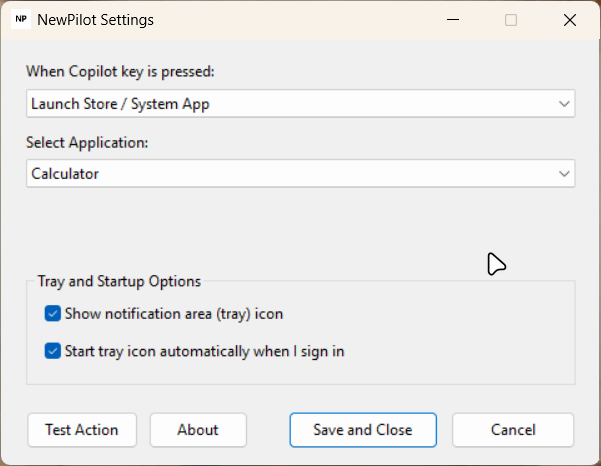
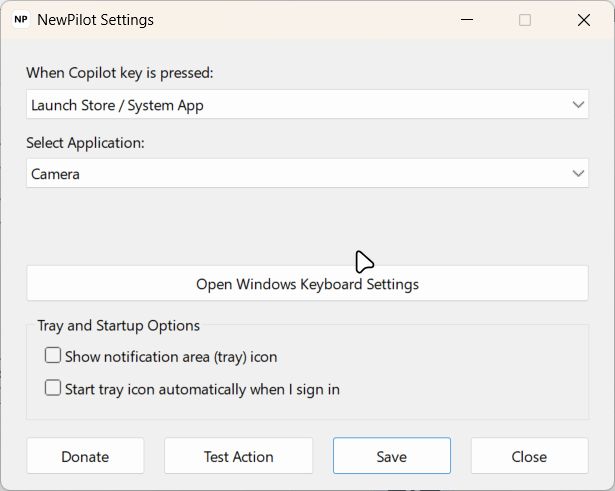
docs: update screenshots and add new screenshot for improved visuals

diff --git a/README.md b/README.md
@@ -8,17 +8,20 @@
 </a>
 
 ---
+
 ## Screenshots
 
 <p align="center">
-  <img src="screenshots/newpilot-screenshot-1.png" alt="NewPilot app selection screenshot" width="250" />
-  <img src="screenshots/newpilot-screenshot-2.png" alt="NewPilot preset selection screenshot" width="250" />
-  <img src="screenshots/newpilot-screenshot-3.png" alt="NewPilot custom menu screenshot" width="250" />
+  <img src="screenshots/newpilot-screenshot-1.png" alt="NewPilot app selection screenshot" width="350" />
+  <img src="screenshots/newpilot-screenshot-2.png" alt="NewPilot preset selection screenshot" width="350" />
+  <img src="screenshots/newpilot-screenshot-3.png" alt="NewPilot custom menu screenshot" width="350" />
+  <img src="screenshots/newpilot-screenshot-4.png" alt="NewPilot do nothing screenshot" width="350" />
 </p>
 
 ## Download & Installation
 
 ### Option 1: Microsoft Store (Recommended)
+
 Install the official Microsoft-signed package directly through the Microsoft Store:
 
 <a href="https://apps.microsoft.com/detail/9NGW4QTD1SWF?referrer=appbadge&mode=full" target="_blank" rel="noopener noreferrer">
@@ -26,6 +29,7 @@ Install the official Microsoft-signed package directly through the Microsoft Sto
 </a>
 
 ### Option 2: WinGet (Command Line)
+
 Install the official Microsoft-signed package from Windows Terminal / PowerShell with zero Store UI:
 
 ```powershell
@@ -33,24 +37,27 @@ winget install "NewPilot"
 ```
 
 ### Option 3: Standalone 1-Click Installer (.exe)
+
 Prefer an offline installer without Microsoft Store? Download and run the standalone setup executable from GitHub Releases:
 
 <a href="https://github.com/GamerJagdish/NewPilot/releases/latest/download/NewPilot-Setup.exe" target="_self">
 	<img src="https://img.shields.io/badge/Download-NewPilot--Setup.exe-0078D4?style=for-the-badge&logo=windows" height="40" alt="Download NewPilot-Setup.exe"/>
 </a>
 
-*(Automatically trusts the developer certificate, registers the MSIX package into Windows 11, and opens NewPilot Settings with zero Microsoft Store interaction).*
+_(Automatically trusts the developer certificate, registers the MSIX package into Windows 11, and opens NewPilot Settings with zero Microsoft Store interaction)._
 
 ### Option 4: One-Click PowerShell Web Installer
+
 Open **PowerShell as Administrator** and execute:
 
 ```powershell
 irm https://raw.githubusercontent.com/GamerJagdish/NewPilot/main/install.ps1 | iex
 ```
 
-*(This command trusts the security certificate, installs the MSIX package, and opens the Settings configuration dialog).*
+_(This command trusts the security certificate, installs the MSIX package, and opens the Settings configuration dialog)._
 
 ### Enabling NewPilot in Windows 11
+
 1. Open **Windows 11 Settings**.
 2. Go to **Bluetooth & devices** → **Keyboard**.
 3. Under **Shortcuts and hotkeys**, locate **Customize Copilot key on keyboard**.
@@ -66,13 +73,13 @@ Existing solutions rely on heavy runtimes (.NET SDK, Electron, WPF), introducing
 
 ### Benchmark Comparison
 
-| Metric | Heavy .NET / Electron Alternatives | **NewPilot (Native C++)** | Improvement |
-| :--- | :--- | :--- | :--- |
-| **Installed App Size** | ~15 MB – 60 MB+ | **~290 KB** | **> 99% Smaller** |
-| **MSIX Package Size** | ~15 MB – 50 MB | **~150 KB** | **> 99% Smaller** |
-| **Keypress Latency** | ~100ms – 300ms (.NET CLR init) | **< 5ms** (Instantaneous) | **~30x Faster** |
-| **Tray Memory Usage** | 30 MB – 80 MB RAM | **< 2 MB RAM** | **> 93% RAM Reduction** |
-| **Dependencies** | .NET 10 SDK / Runtime | **Zero Runtimes** (Pure Win32 C++) | Native Windows OS API |
+| Metric                 | Heavy .NET / Electron Alternatives | **NewPilot (Native C++)**          | Improvement             |
+| :--------------------- | :--------------------------------- | :--------------------------------- | :---------------------- |
+| **Installed App Size** | ~15 MB – 60 MB+                    | **~290 KB**                        | **> 99% Smaller**       |
+| **MSIX Package Size**  | ~15 MB – 50 MB                     | **~150 KB**                        | **> 99% Smaller**       |
+| **Keypress Latency**   | ~100ms – 300ms (.NET CLR init)     | **< 5ms** (Instantaneous)          | **~30x Faster**         |
+| **Tray Memory Usage**  | 30 MB – 80 MB RAM                  | **< 2 MB RAM**                     | **> 93% RAM Reduction** |
+| **Dependencies**       | .NET 10 SDK / Runtime              | **Zero Runtimes** (Pure Win32 C++) | Native Windows OS API   |
 
 ---
 
